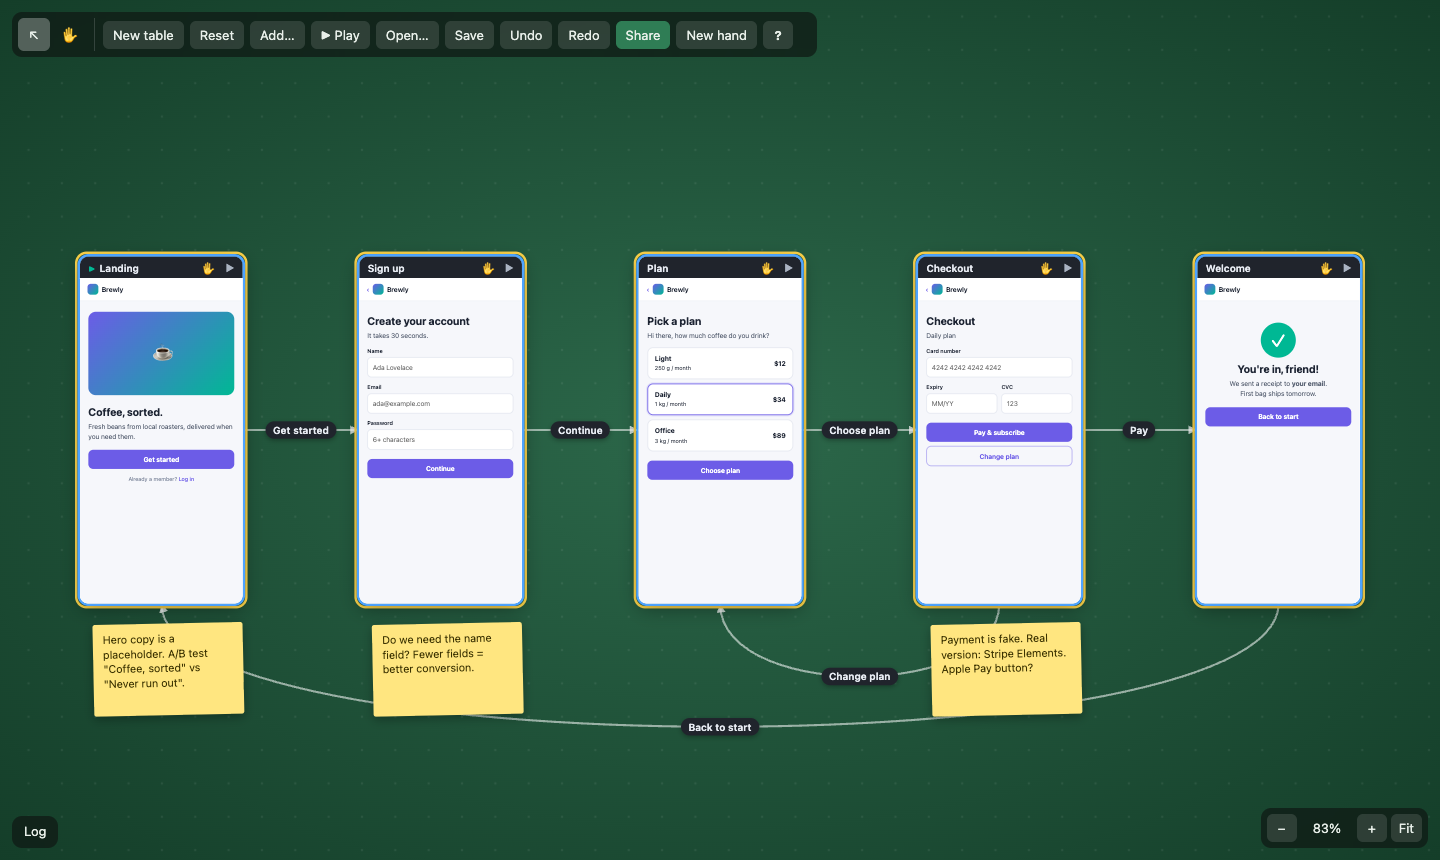
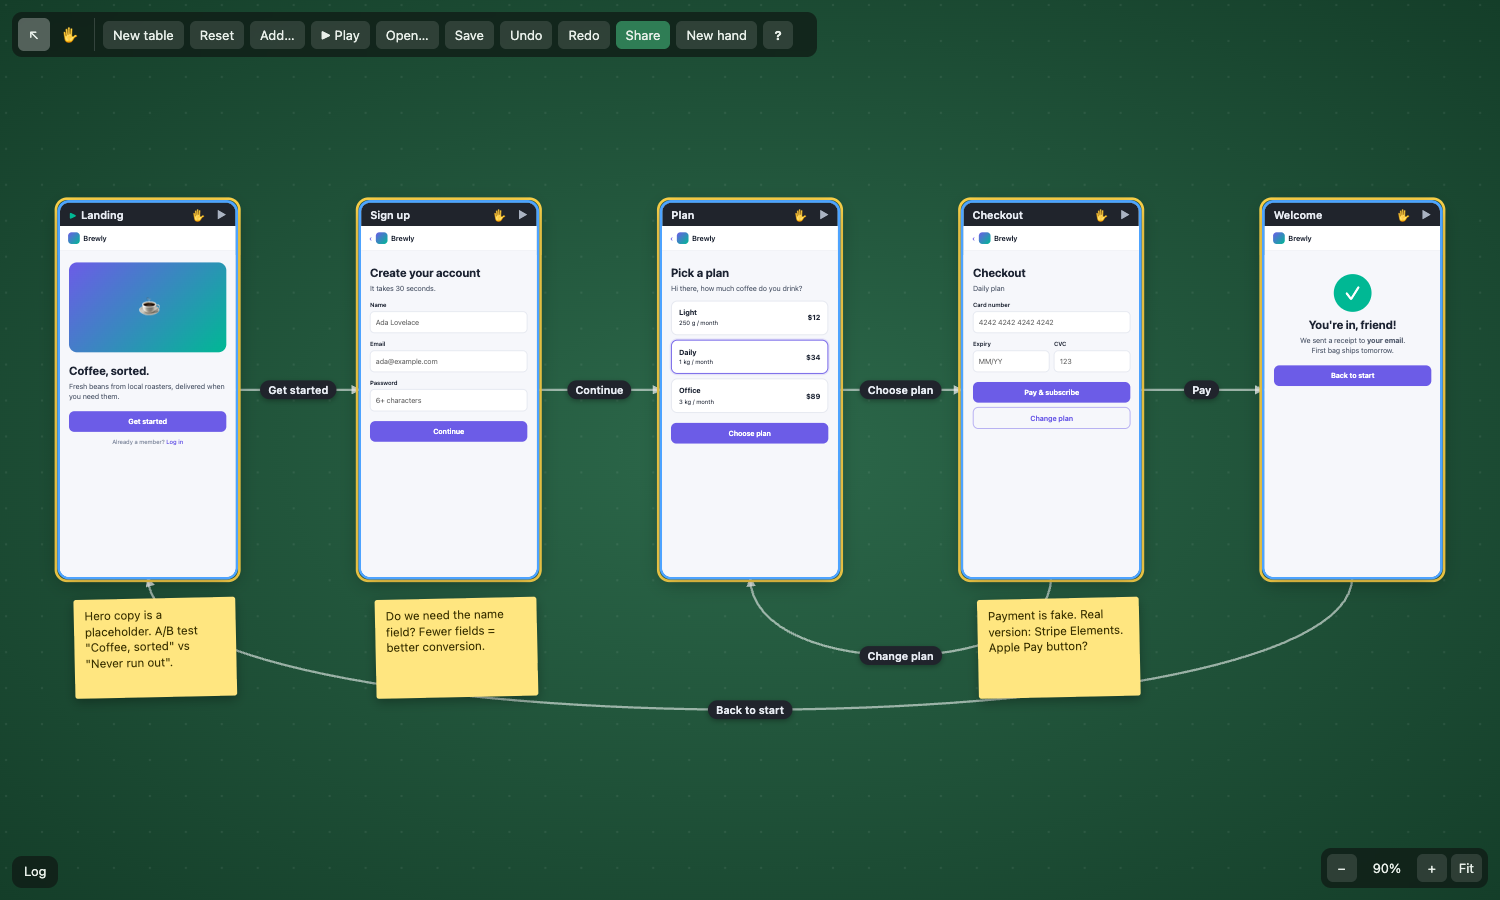
docs(prototype): write-up matches the sandbox-origin build (security model, gaps, deploy gate, demo); fresh screenshots

Changed region(s): [[0.0312, 0.2116, 0.9688, 0.8767], [0.0, 0.0, 0.5938, 0.0907], [0.875, 0.9372, 1.0, 0.9977]]

diff --git a/pocs/canvas/ideas/prototype.md b/pocs/canvas/ideas/prototype.md
@@ -7,9 +7,9 @@
 ## How it works
 
 - **Page** = JSON Canvas `text` node with `x-page: { title, html, vw, start? }`. `text` holds a short markdown stand-in, so Obsidian shows a card. The HTML lives in the canvas, so it syncs (Yjs), saves to the `.canvas` file and undoes like any field.
-- **Render**: `<iframe sandbox="allow-scripts" srcdoc>` laid out at the device width (`vw`: 390 / 820 / 1280) and CSS-scaled to the node width. Canvas zoom then scales the world as usual. No pointer events by default, so a page is a draggable thumbnail. **Interact** (I or ✋) turns pointer events on for that page on this screen only.
+- **Render**: an iframe on a **separate sandbox origin** (`http://page-<random>.<host>:5227/page`, one origin per page; see Security model), laid out at the device width (`vw`: 390 / 820 / 1280) and CSS-scaled to the node width. The app sends the HTML to the frame by `postMessage` once it has booted. Canvas zoom then scales the world as usual. No pointer events by default, so a page is a draggable thumbnail. **Interact** (I or ✋) turns pointer events on for that page on this screen only. Re-rendering (a link followed on the canvas, an edit) replaces the frame; it never reassigns `srcdoc`.
 - **Links** = plain JSON Canvas edges, `label` = the action ("Continue"). In the page, `data-goto="X"` resolves in this order: an outgoing edge labelled X, else an outgoing edge to a page titled X, else any page titled X (with a hint that no edge exists yet), else nothing. An empty `data-goto` follows the only outgoing edge. `data-back` goes back. A `<button>` inside a `<form>` runs `reportValidity()` first, so required fields work (a plain link in the form, like Change plan, doesn't).
-- **Bridge**: a script injected before the page's HTML posts `{tag, kind: goto|back|set|escape}` to the parent. The parent accepts only messages from a known frame (`e.source === frame.contentWindow`) with that exact shape; on the canvas, only from a page you're interacting with (an idle thumbnail's script can't move your view). `data-store="key"` keeps a field value in a session state; `data-show="key"` displays it on a later page ("You're in, Ada!"). Scripts get `canvas.goto/back/set/state`.
+- **Bridge**: a script injected before the page's HTML posts `{tag, kind: goto|back|set}` to the parent. The parent accepts only messages from a known frame (`e.source === frame.contentWindow` and `e.origin` equal to the frame's sandbox origin) with that exact shape; on the canvas, only from a page you're interacting with (an idle thumbnail's script can't move your view). **Escape** is not a page message (a page could close Play with it): the frame host reports a real key press (`isTrusted`) with a per-frame key the page never sees, and the plugin hears it as an event on the frame element. `data-store="key"` keeps a field value in a session state; `data-show="key"` displays it on a later page ("You're in, Ada!"). Scripts get `canvas.goto/back/set/state`.
 - **Canvas mode**: in an interactive page, a link click makes the view glide to the target page, flash the edge it followed, select the target and turn on its interact.
 - **Play** (▶ toolbar, ⇧↵, ▶ on a page): a full-screen overlay showing the device frame, a Back button (←), a clickable breadcrumb of the path (revisiting a page folds the loop), outgoing links as chips (pages with no link markup still work), the page's sticky notes beside it (N), Restart (R) and Esc. Edits made by anyone while you play show up live.
 - **Notes**: yellow stickies (`text` node, `color: "3"`, `x-page: { note: true, on }`). A note dropped on or near a page attaches to it (rider rule), moves with the page and appears beside it in Play.
@@ -18,13 +18,14 @@
 
 ## What's built (branch `idea/prototype`)
 
-- `src/plugins/prototype/`: `model.ts` (fields, link resolution, flow order, `data-goto` scan), `commands.ts` (`page.create/edit/device/scale/start/link/unlink/autoLink/arrange/note/noteText/attach/seed`, all plain data in and changes out), `bridge.ts` (srcdoc + CSP + message validation), `edges.ts` (SVG edge layer with labels), `play.ts` (Play + follow), `editor.ts` (code editor with live preview), `history.ts`, `io.ts` (import repair), `seed.ts` (5-screen "Brewly" signup → plan → checkout → welcome flow), `index.ts` (types, menus, keys, kits).
-- Tests: `prototype.test.ts` (13 tests: seed, link resolution, flow order, arrange, undo, delete drops edges, auto-link, note attach, file round-trip + import repair, srcdoc can't be broken out of, message validation, play history) plus 2 core edge tests. 244 total pass (229 before). `pnpm typecheck` is clean.
-- Browser-checked headless (Chrome via playwright-core, port 5215). Canvas link following, the full Play flow with validation and carried state, Back, breadcrumb, chips, Esc, the editor, arrange, and two tabs in one room with follow / stop-following all work. A probe page confirmed parent access, localStorage, fetch, images, popups and top navigation are all blocked. The frame navigating *itself* is not (see Known holes).
+- `src/sandbox/` (lifted from the parked sandbox-origin experiment, pages only): `framehost.js` (frame host page + headers + navigation guard; plain JS shared by Node and the Worker), `client.ts` (frame URLs, `openFrame`), `page.ts` (`pageFrame`, `sandboxPage`, the in-page bridge script), `sha256.js` (the boot script's CSP hash, plain JS), `sandbox.test.ts`. `sandbox/server.mjs` (dev origin), `signaling/src/sandbox.ts` (the same host in the Worker, by host name; inert until `SANDBOX_HOST` is set). `scripts/page-leak.mjs` (`pnpm test:leak`).
+- `src/plugins/prototype/`: `model.ts` (fields, link resolution, flow order, `data-goto` scan), `commands.ts` (`page.create/edit/device/scale/start/link/unlink/autoLink/arrange/note/noteText/attach/seed`, all plain data in and changes out), `bridge.ts` (message validation; the frame is in `src/sandbox/page.ts`), `edges.ts` (SVG edge layer with labels), `play.ts` (Play + follow), `editor.ts` (code editor with live preview), `history.ts`, `io.ts` (import repair), `seed.ts` (5-screen "Brewly" signup → plan → checkout → welcome flow), `index.ts` (types, menus, keys, kits).
+- Tests: `prototype.test.ts` (13 tests: seed, link resolution, flow order, arrange, undo, delete drops edges, auto-link, note attach, file round-trip + import repair, page document can't be broken out of, message origin check, message validation, play history) plus 2 core edge tests, `sandbox.test.ts` (headers per frame kind, origin patterns, Escape handling, dev allow-list, SHA-256) and the Worker routing test. 255 total pass. `pnpm typecheck` and `pnpm build` are clean.
+- Browser-checked headless (Chrome via playwright-core). Canvas link following, the full Play flow with validation and carried state, Back, breadcrumb, chips, Esc, the editor, arrange, and two tabs in one room with follow all work on the sandbox origin. `pnpm test:leak` is the leak check: a throwaway "evil" server on 127.0.0.1 and pages that try to send the session state to it by `location`, meta refresh, `navigation.navigate`, a clicked link, and (typing into an interactive page) on every keystroke. On the old srcdoc frames all five reach the server, four of them from an idle thumbnail without a click. Now none does, while the pages keep rendering and the interactive input keeps what was typed.
 
 ## Demo
 
-1. `cd ~/code/canvas-wt/prototype && pnpm exec vite --port 5215 --strictPort`, then open http://localhost:5215.
+1. Dev needs two servers: the app and the sandbox origin. `pnpm dev` starts both (app 5190, signaling 5192, sandbox 5227). In a worktree: `pnpm dev:sandbox` (or `node sandbox/server.mjs --port <p>`) and `VITE_SANDBOX_PORT=<p> pnpm exec vite --port <app> --strictPort`, then open http://localhost:<app>. On `http://mini.internal:<app>` the frames load from `http://page-….mini.internal:<p>`: the Mini dev proxy must forward `*.mini.internal:<p>` (it forwards any port today; unverified for 5227 from a browser on another machine).
 2. **Add… › Prototype: example signup flow**: 5 phone pages with labelled arrows and 3 notes.
 3. Click **Landing**, press **I** (or its ✋). Click **Get started** inside it: the view glides to Sign up and the arrow flashes. Esc inside the page stops interacting.
 4. **▶ Play** in the toolbar: the Sign up form refuses empty fields. Type a name and an email, Continue; Plan greets you by name. Pick Office, Choose plan; Checkout shows the plan. Pay, and Welcome says "You're in, <name>!". Try Back, a breadcrumb item, the link chips at the bottom, N for notes, R to restart, Esc to exit.
@@ -45,14 +46,14 @@
 - Presence `awareness` is reachable for custom ephemeral fields (`play`).
 
 **Had to change in core (small)**
-- `Change` gained `{op:'edge', edge}` (add/replace, skipped if an end is missing) and `{op:'delEdge', id}` (`doc.ts`, `store.ts`, about 10 lines plus 2 tests). Before this, commands couldn't touch edges at all.
+- `Change` gained `{op:'edge', edge}` (add/replace, skipped if an end is missing, `undefined` fields dropped) and `{op:'unedge', id}` (`doc.ts`, `store.ts`, about 10 lines plus 2 tests). Before this, commands couldn't touch edges at all. These are written exactly like the agent-bridge's ops (same names, same code), so the two branches merge without a conflict in `doc.ts` / `store.ts`; whichever lands second brings nothing new there. The core test and the prototype's `unlink` are the only prototype-side users.
 - `main.ts`: registers the plugin and adds a ▶ Play toolbar button. `help.ts`: a "Prototype pages" group.
 
 **Gaps found (worth fixing in core later)**
 - **Core draws no edges.** The plugin mounts its own SVG layer into `app.view.world`. Edges should be core (render, select, label edit, delete), with plugins styling them.
 - **No resize handles.** Size goes through menu commands (Device, Larger/Smaller).
 - **Clicks inside the table are captured**: `setPointerCapture` on the root means a button rendered over the table (an overlay or banner) never gets its click. The follow banner had to move to `document.body`. Core could offer an overlay layer that's excluded from capture.
-- **Keys inside an iframe never reach `window`.** The bridge has to forward Escape. The same will hold for every iframe-hosted plugin.
+- **Keys inside an iframe never reach `window`.** The frame host has to forward Escape (a real key press only, so a page can't fake it). The same will hold for every iframe-hosted plugin.
 - Presence is set after plugin `setup` (rooms join later), so a plugin can't hook awareness in setup. An `app.onPresence(fn)` hook would help; I subscribe to the store and wait.
 - No per-viewer local UI state API ("interact" is a Set in the plugin, applied via `boxOf(id).classList`). Mats does the same for edit mode, so a small pattern for this would help.
 
@@ -61,11 +62,16 @@
 - **Multiplayer**: pages, edges and notes are doc data, so everyone sees the same flow live, including edits during Play. Play position, path and form state are presence (ephemeral), which gives follow-the-presenter. Not done: shared interact state (each viewer's pages are separate sandboxes; typing in one tab doesn't show in the other's thumbnail).
 - **Agent native**: HTML is exactly what LLMs emit. An agent can `page.create` screens, `page.link` or `page.autoLink` them, `page.arrange` them and leave notes, all through the same commands a person uses. A future agent could also read the session state / path from a Play run (usability testing) or react to notes ("make the CTA bigger").
 - **Local first / hosting**: the HTML lives in the `.canvas` file, so it works offline and survives a git commit. For git-tracked hosting, a page could instead be a JSON Canvas `file` node pointing at `pages/checkout.html` (real files, diffable, editable in VS Code), with the plugin reading the file. That's the natural next step and fits "git-tracked files" hosting. Large HTML in one Y.Map field is last-writer-wins; real co-editing of a page would need Y.Text.
-- **Security model** (same as a future plugin sandbox):
-  - Untrusted HTML from agents or other players runs in `sandbox="allow-scripts"` without `allow-same-origin`. That means an opaque origin: no canvas DOM, no IndexedDB/localStorage, no cookies, no forms, no popups, no top navigation.
-  - A CSP `<meta>` placed before any page content (a script can't lift it) blocks fetch/XHR/WebSocket, remote images, fonts and CSS. Only inline code and data: URLs are allowed, so pages can't fetch or load from the network.
-  - The only channel is postMessage with a validated 4-message vocabulary.
-  - Known holes: **a page can navigate its own frame** (`location = 'https://evil/?' + …`, a `<meta http-equiv=refresh>`, a clicked `<a href>`). CSP has no working `navigate-to` and the sandbox has no flag against it, so a page can phone home with whatever it sees, including `canvas.state` (form values typed on other pages in that session), and then show a remote site inside the node. Checked: both the script and meta refresh hit a local server. WebRTC from inside the frame isn't covered by CSP in all browsers (Chrome has no `webrtc 'block'` yet). CPU abuse (an infinite loop) can stall the tab, because same-process srcdoc frames share the main thread unless site isolation puts them out of process. A hosted version should serve frames from a separate sandbox origin (`*.canvas-usercontent`) with real CSP headers.
+- **Security model** (untrusted HTML from agents or other players):
+  - Each page runs in an iframe on its **own sandbox origin** (`page-<random>.<sandbox host>`), served by a tiny frame-host page with real HTTP headers: CSP (`default-src 'none'`, inline script/style only, `img/font/media` from `data:`/`blob:` only, `frame-src 'none'`, `worker-src 'none'`, `form-action 'none'`, `frame-ancestors` = the app's origins, `sandbox allow-scripts allow-same-origin`), a Permissions-Policy that denies 26 device features, `no-referrer`, `no-store`. The app's DOM, storage and cookies are on a different origin (and the frame's own storage is empty and private to that one page). No fetch/XHR/WebSocket/images/fonts/CSS from the network, no popups, forms, top navigation or modals.
+  - **Navigation guard**: CSP has no working `navigate-to` and no sandbox flag stops a frame navigating itself, so the frame host's boot script cancels every navigation of its own frame through the Navigation API (`location = …`, `navigation.navigate`, meta refresh, link clicks, reload) before any page code runs. It captures `Reflect.apply`, `preventDefault` and the `destination.url` getter first, so a page that replaces them later doesn't disarm it, and the listener survives `document.open()`. This needs a real (not opaque) origin, which is why the frame is `allow-same-origin` and why each page gets its own subdomain: siblings can't read each other's DOM, storage or BroadcastChannel. Defense in depth: the app removes a frame that loads a second document.
+  - The only channel is postMessage with a validated 3-message vocabulary (`goto`, `back`, `set`), accepted only from the frame's window *and* its sandbox origin. Escape and the page's own CSP violations come from the frame host, not the page.
+  - **Known gaps** (deferred; same as the sandbox-origin write-up):
+    - **WebRTC from a page**: Chrome ignores CSP `webrtc 'block'`; the boot deletes the `RTCPeerConnection` globals, but a page can get fresh constructors from a same-origin child frame (`window[0]`). So a page with scripts can still send UDP to a STUN/TURN server. Options: scripts-off pages with a per-page consent, or accept "no casual network" for pages.
+    - **Browsers without the Navigation API** get no guard (the frame host reports `unguarded`); there a self-navigating page leaks one request and is then removed. Chrome/Edge have it; Firefox and Safari only recently. Not tested outside Chrome.
+    - **Shared cookies on the parent domain**: a page can set `Domain=<sandbox host>` and sibling pages read it (on dev's `*.mini.internal` the app too, and every dev service on `mini.internal`). Not on `*.localhost`. Production fix: the frames domain goes on the Public Suffix List.
+    - DNS-prefetch side channels, CPU burn (an infinite loop stalls the tab; in dev the frames share the app's process, in production the separate site gets its own), Spectre-class reads in dev.
+  - **Deploy gate**: the live POC needs frames on a real separate domain (decision `x-host-sandbox-domain`): a wildcard host on a registrable domain of its own, wildcard DNS + certificate, route + `SANDBOX_HOST` / `APP_ORIGINS` vars, `run_worker_first` with an assets binding (all in comments in `signaling/wrangler.deploy.toml`), and the app built with `VITE_SANDBOX_URL="https://{label}.<domain>"`. Without it, the deployed app has no sandbox host and pages stay blank (no fallback to srcdoc, on purpose). Not done here.
   - **Plugin marketplace**: the same frame plus bridge can host third-party plugin *renders* (the plugin draws inside an iframe and talks to the host only through a message API of capability-scoped commands). This prototype is a small proof of that shape: the page asks "goto X" and the host decides. Plugin *logic* (commands that change the doc) would run in a Worker or a similar realm with the same message discipline.
 
 ## Open questions
@@ -83,7 +89,7 @@
 - Resize handles in core: 1 day.
 - File-backed pages (`file` node + html files, watcher for git hosting): 2 days.
 - Snapshot thumbnails for big flows, frame pooling: 2 days.
-- Separate sandbox origin + CSP headers in the hosted version, WebRTC hole check: 1–2 days.
+- Production sandbox host (domain, wildcard cert, route, `run_worker_first` + assets, build var): ~1 day plus the domain decision. Scripts-off page mode with consent for the WebRTC hole: 1–2 days.
 - Co-editing HTML with Y.Text + a real code editor (CodeMirror): 2–3 days.
 - Agent tools (MCP or similar: create / link / arrange / read the notes): 1–2 days on top of the commands.
 - Total to a solid v1: about 2–3 weeks.
